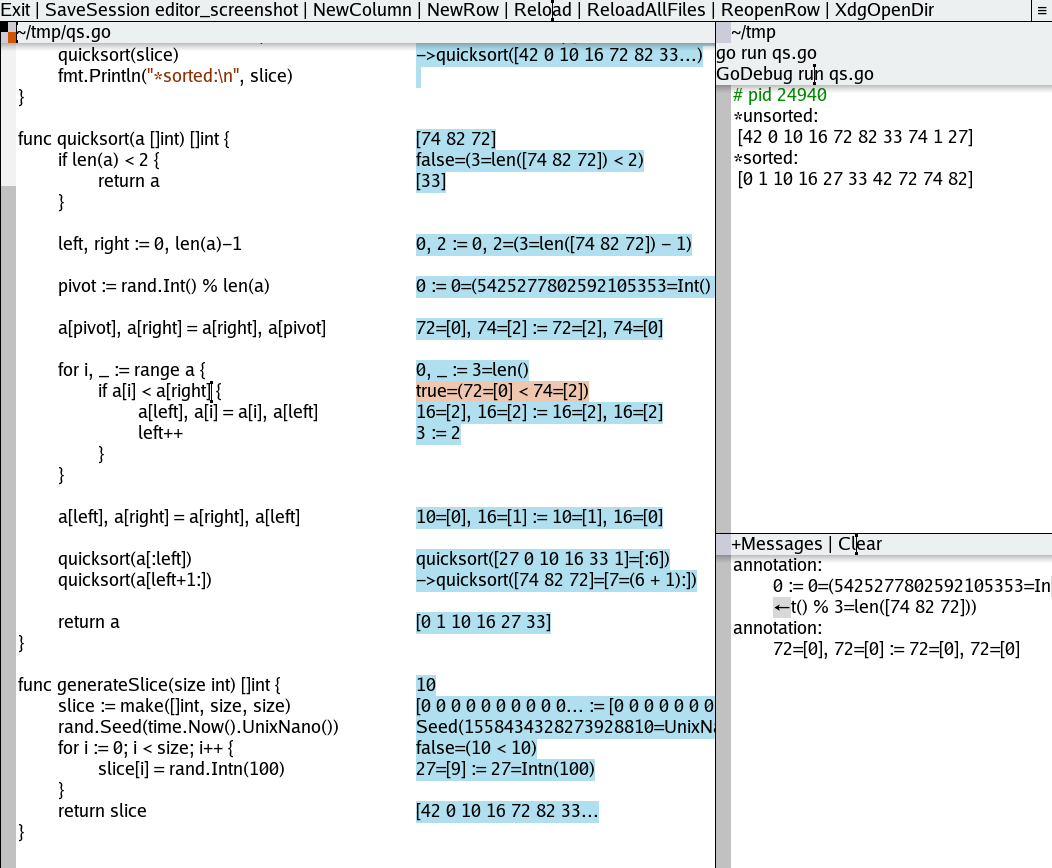
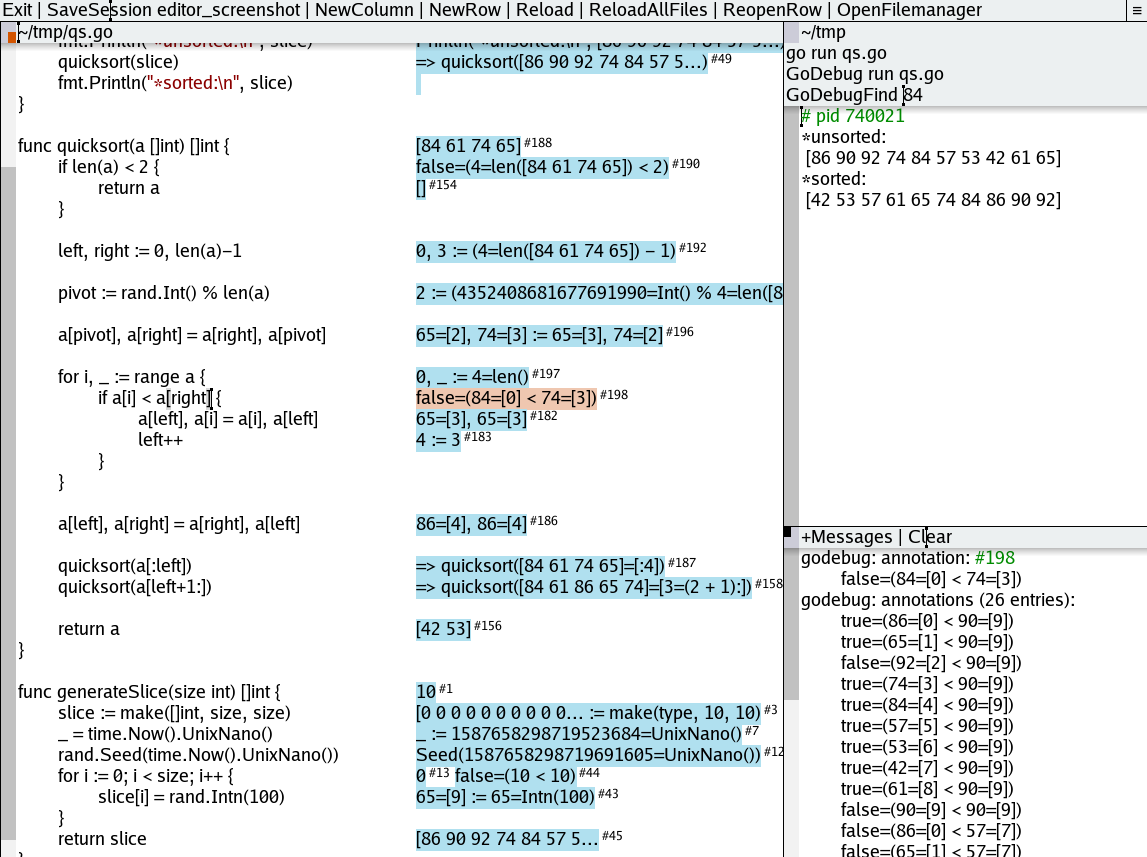
Update readme and screenshot.

diff --git a/README.md b/README.md
@@ -42,13 +42,11 @@ Source code editor in pure Go.
 
 ## Installation and usage
 
-Get the latest development:
+Get with one of:
 ```
+go get -u github.com/jmigpin/editor@experimental	# bleeding edge
 go get -u github.com/jmigpin/editor@master
-```
-Or get the last tagged release (older) or if in GOPATH mode:
-```
-go get -u github.com/jmigpin/editor
+go get -u github.com/jmigpin/editor				# last tagged release (older)
 ```
 Build and run:
 ```
@@ -59,7 +57,7 @@ go build
 
 Windows platform compilation alternatives:
 ```
-go build	# shows one console window (will be hidden, but makes a flash)
+go build		# shows one console window (will be hidden, but makes a flash)
 go build -ldflags -H=windowsgui 	# hides the console window, but cmds will popup consoles
 go build -tags=xproto 	# (not native, needs an x11 server to run)
 ```
@@ -240,8 +238,8 @@ Examples:
 	GoDebug test -help
 	GoDebug test
 	GoDebug test -run mytest
-	GoDebug build -addr=:8080 main.go
-	GoDebug connect -addr=:8080
+	GoDebug build -addr=:8008 main.go
+	GoDebug connect -addr=:8008
 	GoDebug run -env=GODEBUG_BUILD_FLAGS=-tags=xproto main.go
 ```
 
@@ -322,14 +320,19 @@ Examples:
 		```
 		The example below builds a binary for windows in another platform, for later remote debug:
 		```
-		GoDebug build -env=GOOS=windows -addr=:8080 main.go 
+		GoDebug build -env=GOOS=windows -addr=:8008 main.go
+		... (copy the binary to the target platform and run it) ...
+		GoDebug connect -addr=:8008
 		```
 
 ## Internal variables
 
 - `~<digit>=path`: Replaces long row filenames with the variable. Ex.: a file named `/a/b/c/d/e.txt` with `~0=/a/b/c` defined in the top toolbar will be shortened to `~0/d/e.txt`.
 - `$font=<name>[,<size>]`: sets the row textarea font when set on the row toolbar. Useful when using a proportional font in the editor but a monospaced font is desired for a particular program output running in a row. Ex.: `$font=mono`.
-- `$termFilter`: when set on a row toolbar, filters terminal escape sequences. Currently only the `clear` escape sequence `esc[J` is interpreted to clear the textarea. Other escape sequences are removed from the output.
+- `$termFilter`: same as `$terminal=f`
+- `$terminal=[f,k]`: enable terminal features.
+	- `f`: Filter (remove) escape sequences from the output. Currently only the clear display sequence is interpreted in this mode which clears the output (usefull for running programs that want to discard old ouput).
+	- `k`: redirect keyboard input to the running program to enable reading from standard input. Note: typing keys will not be seen in the textarea unless the running program outputs them (exceptions: "\n") .
 
 ## Environment variables set available to external commands
 
